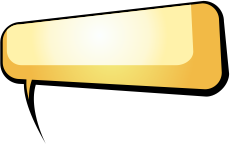
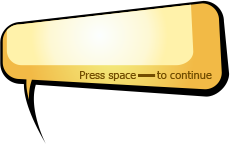
Message

Changed region(s): [[0.3348, 0.469, 0.9435, 0.5517]]

diff --git a/public/tsquare/css/main.css b/public/tsquare/css/main.css
@@ -27,3 +27,9 @@ img { border:none; outline:none;}
 .overlay { float:left; width:100%; background:#000; height:620px; background:url(../images/common/overylay_background.png); }
 .container { width:760px; height:685px; margin:0 auto; }
 
+.message { position:absolute; top:-100px; left:300px; z-index:30; }
+.message p { z-index:31; position:relative; font-weight:bold; font-family:"Comic Sans MS", cursive; font-size:1.1em; width:210px; margin:25px 10px 0 10px; line-height:1.2em; height:54px; }
+
+
+.messages { position:absolute; top:-100px; left:550px; z-index:30; }
+.messages p { z-index:31; position:relative; font-weight:bold; font-family:"Comic Sans MS", cursive; font-size:1.1em; width:210px; margin:25px 10px 0 10px; line-height:1.2em; height:54px; }

diff --git a/public/tsquare/static_game.html b/public/tsquare/static_game.html
@@ -12,6 +12,14 @@
 
 <div id="uiContainer" class="uiContainer" >
   <div id="scores">
+  	<div class="message">
+    	<p>This is the text of the message, this is the text of the message.</p>
+    	<img class="positioned" src="images/game_elements/bubble.png" alt="Message" />
+    </div>
+  	<div class="messages">
+    	<p>This is the text of the message, this is the text of the message.</p>
+    	<img class="positioned" src="images/game_elements/bubbleMessage.png" alt="Message" />
+    </div>
     <div class="friendsBar">
     	<!--Game funcations-->
     	<div class="gameFunctions">
